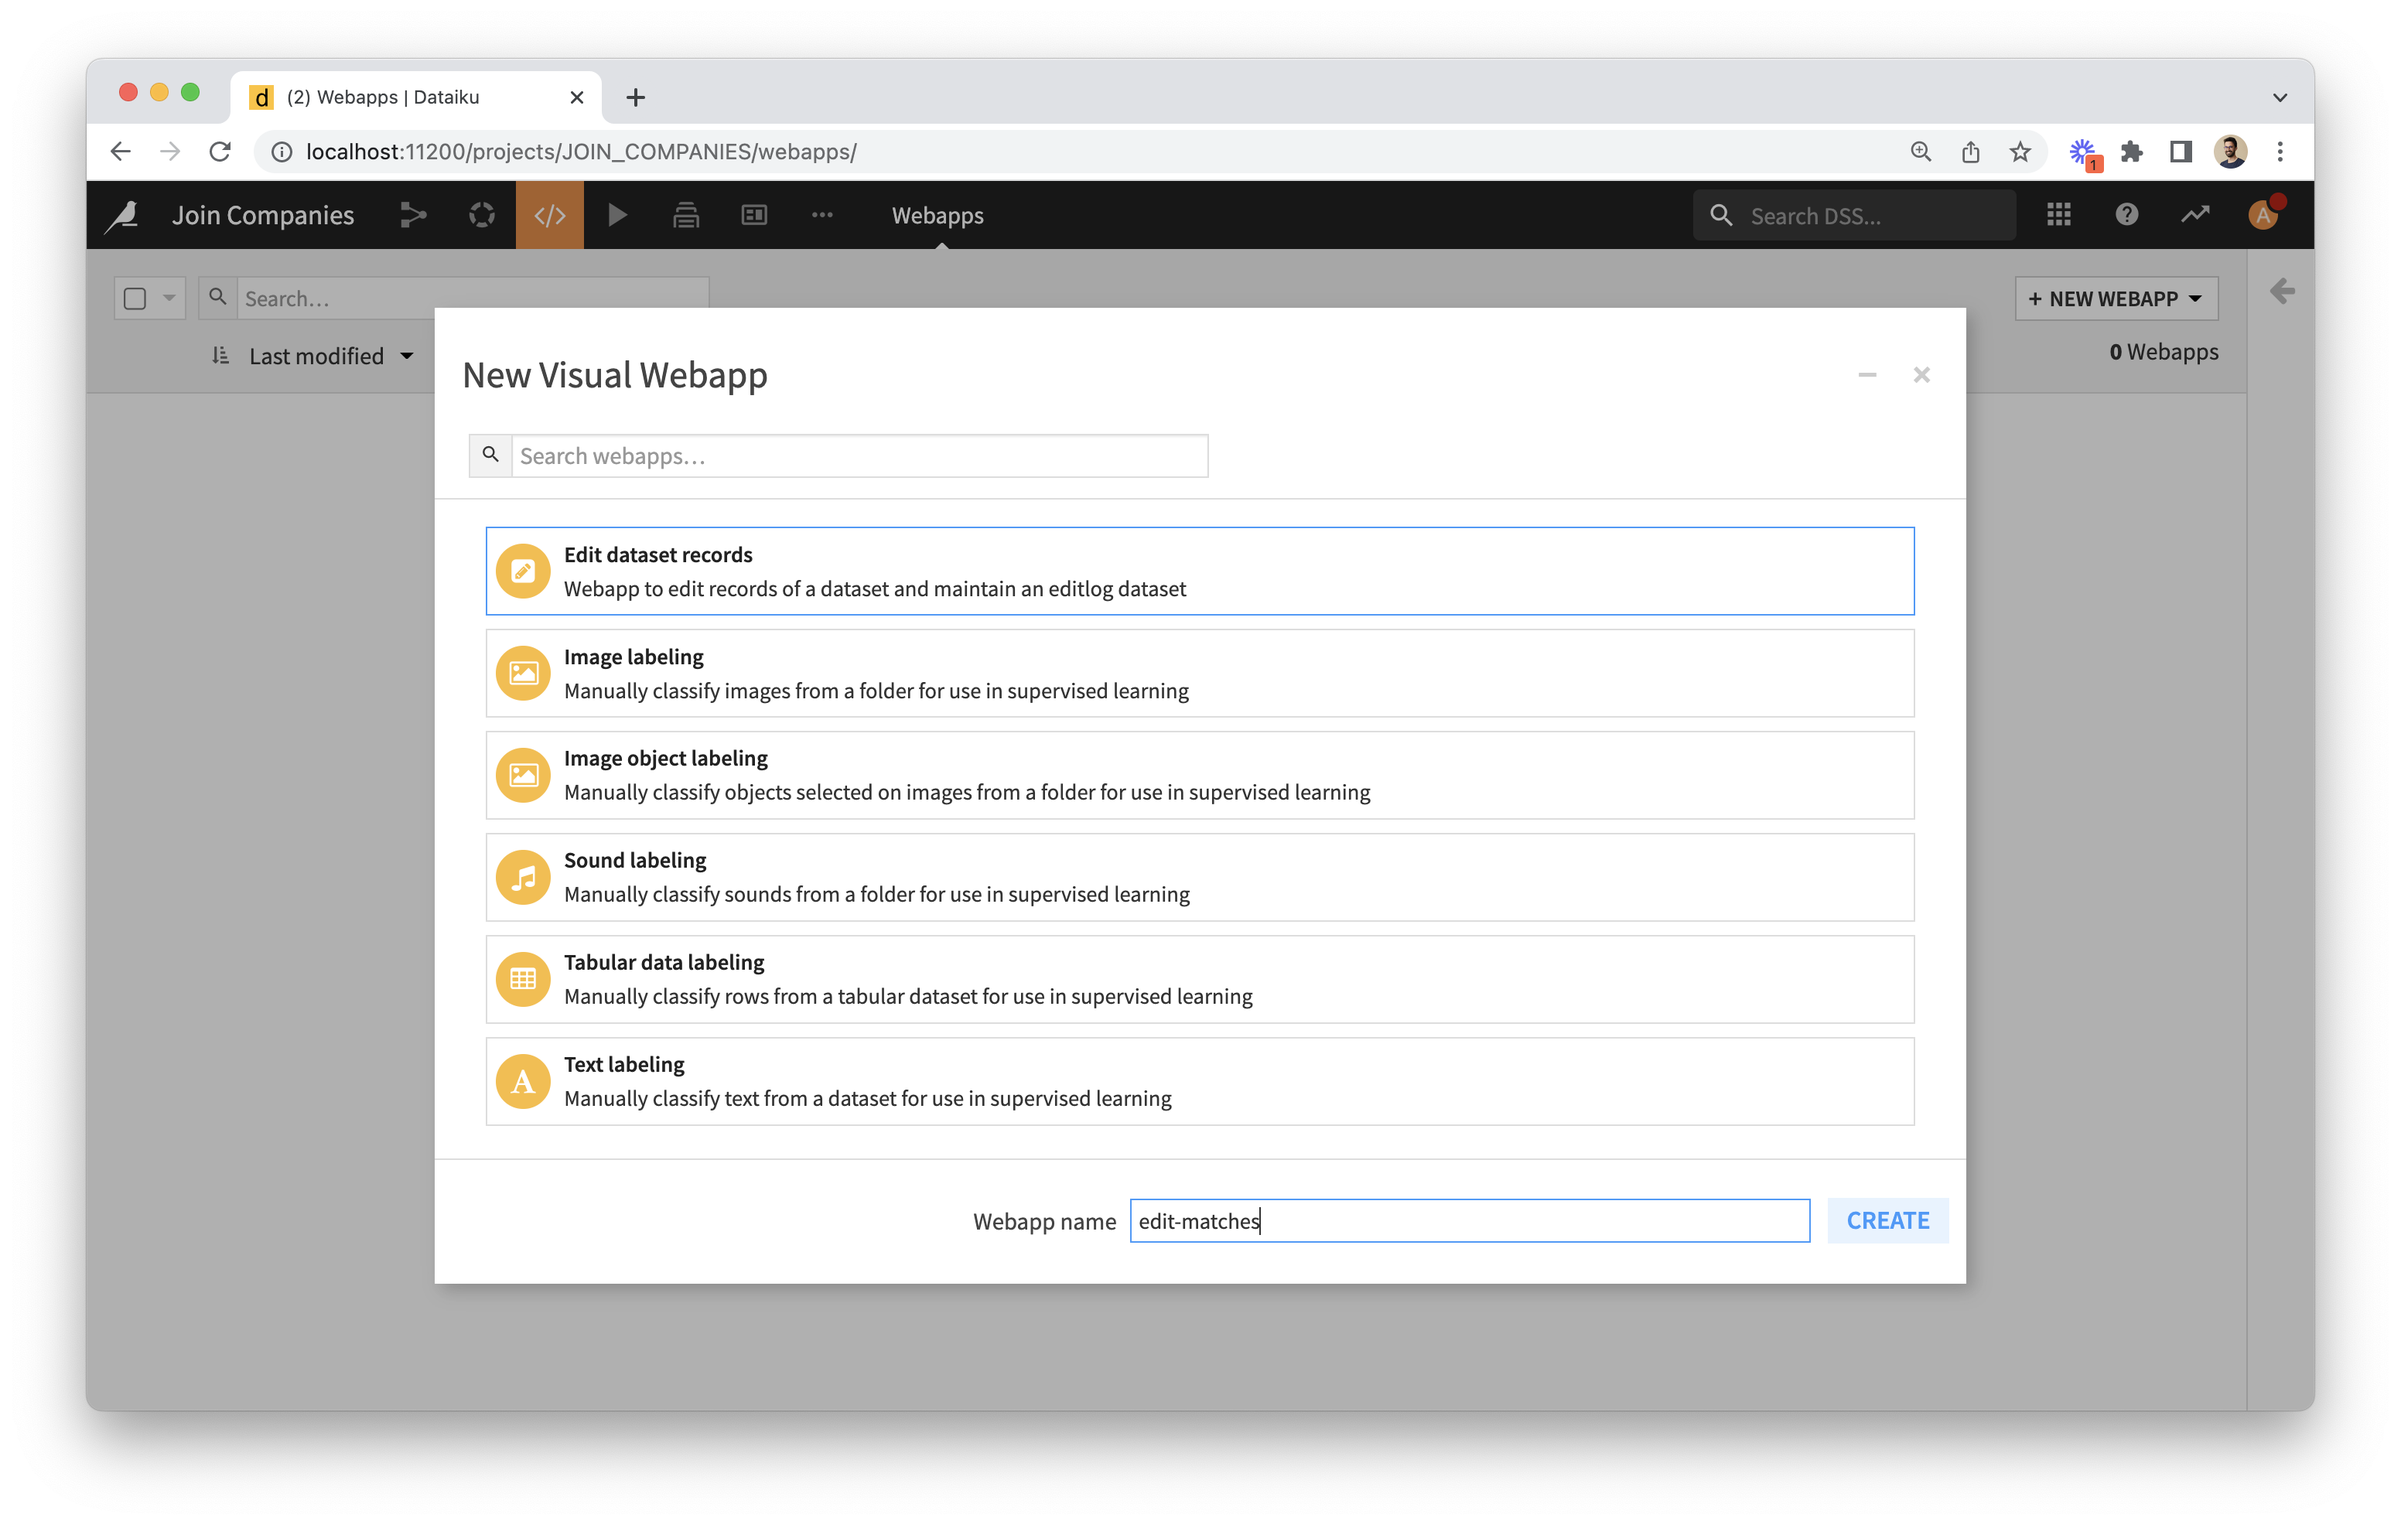
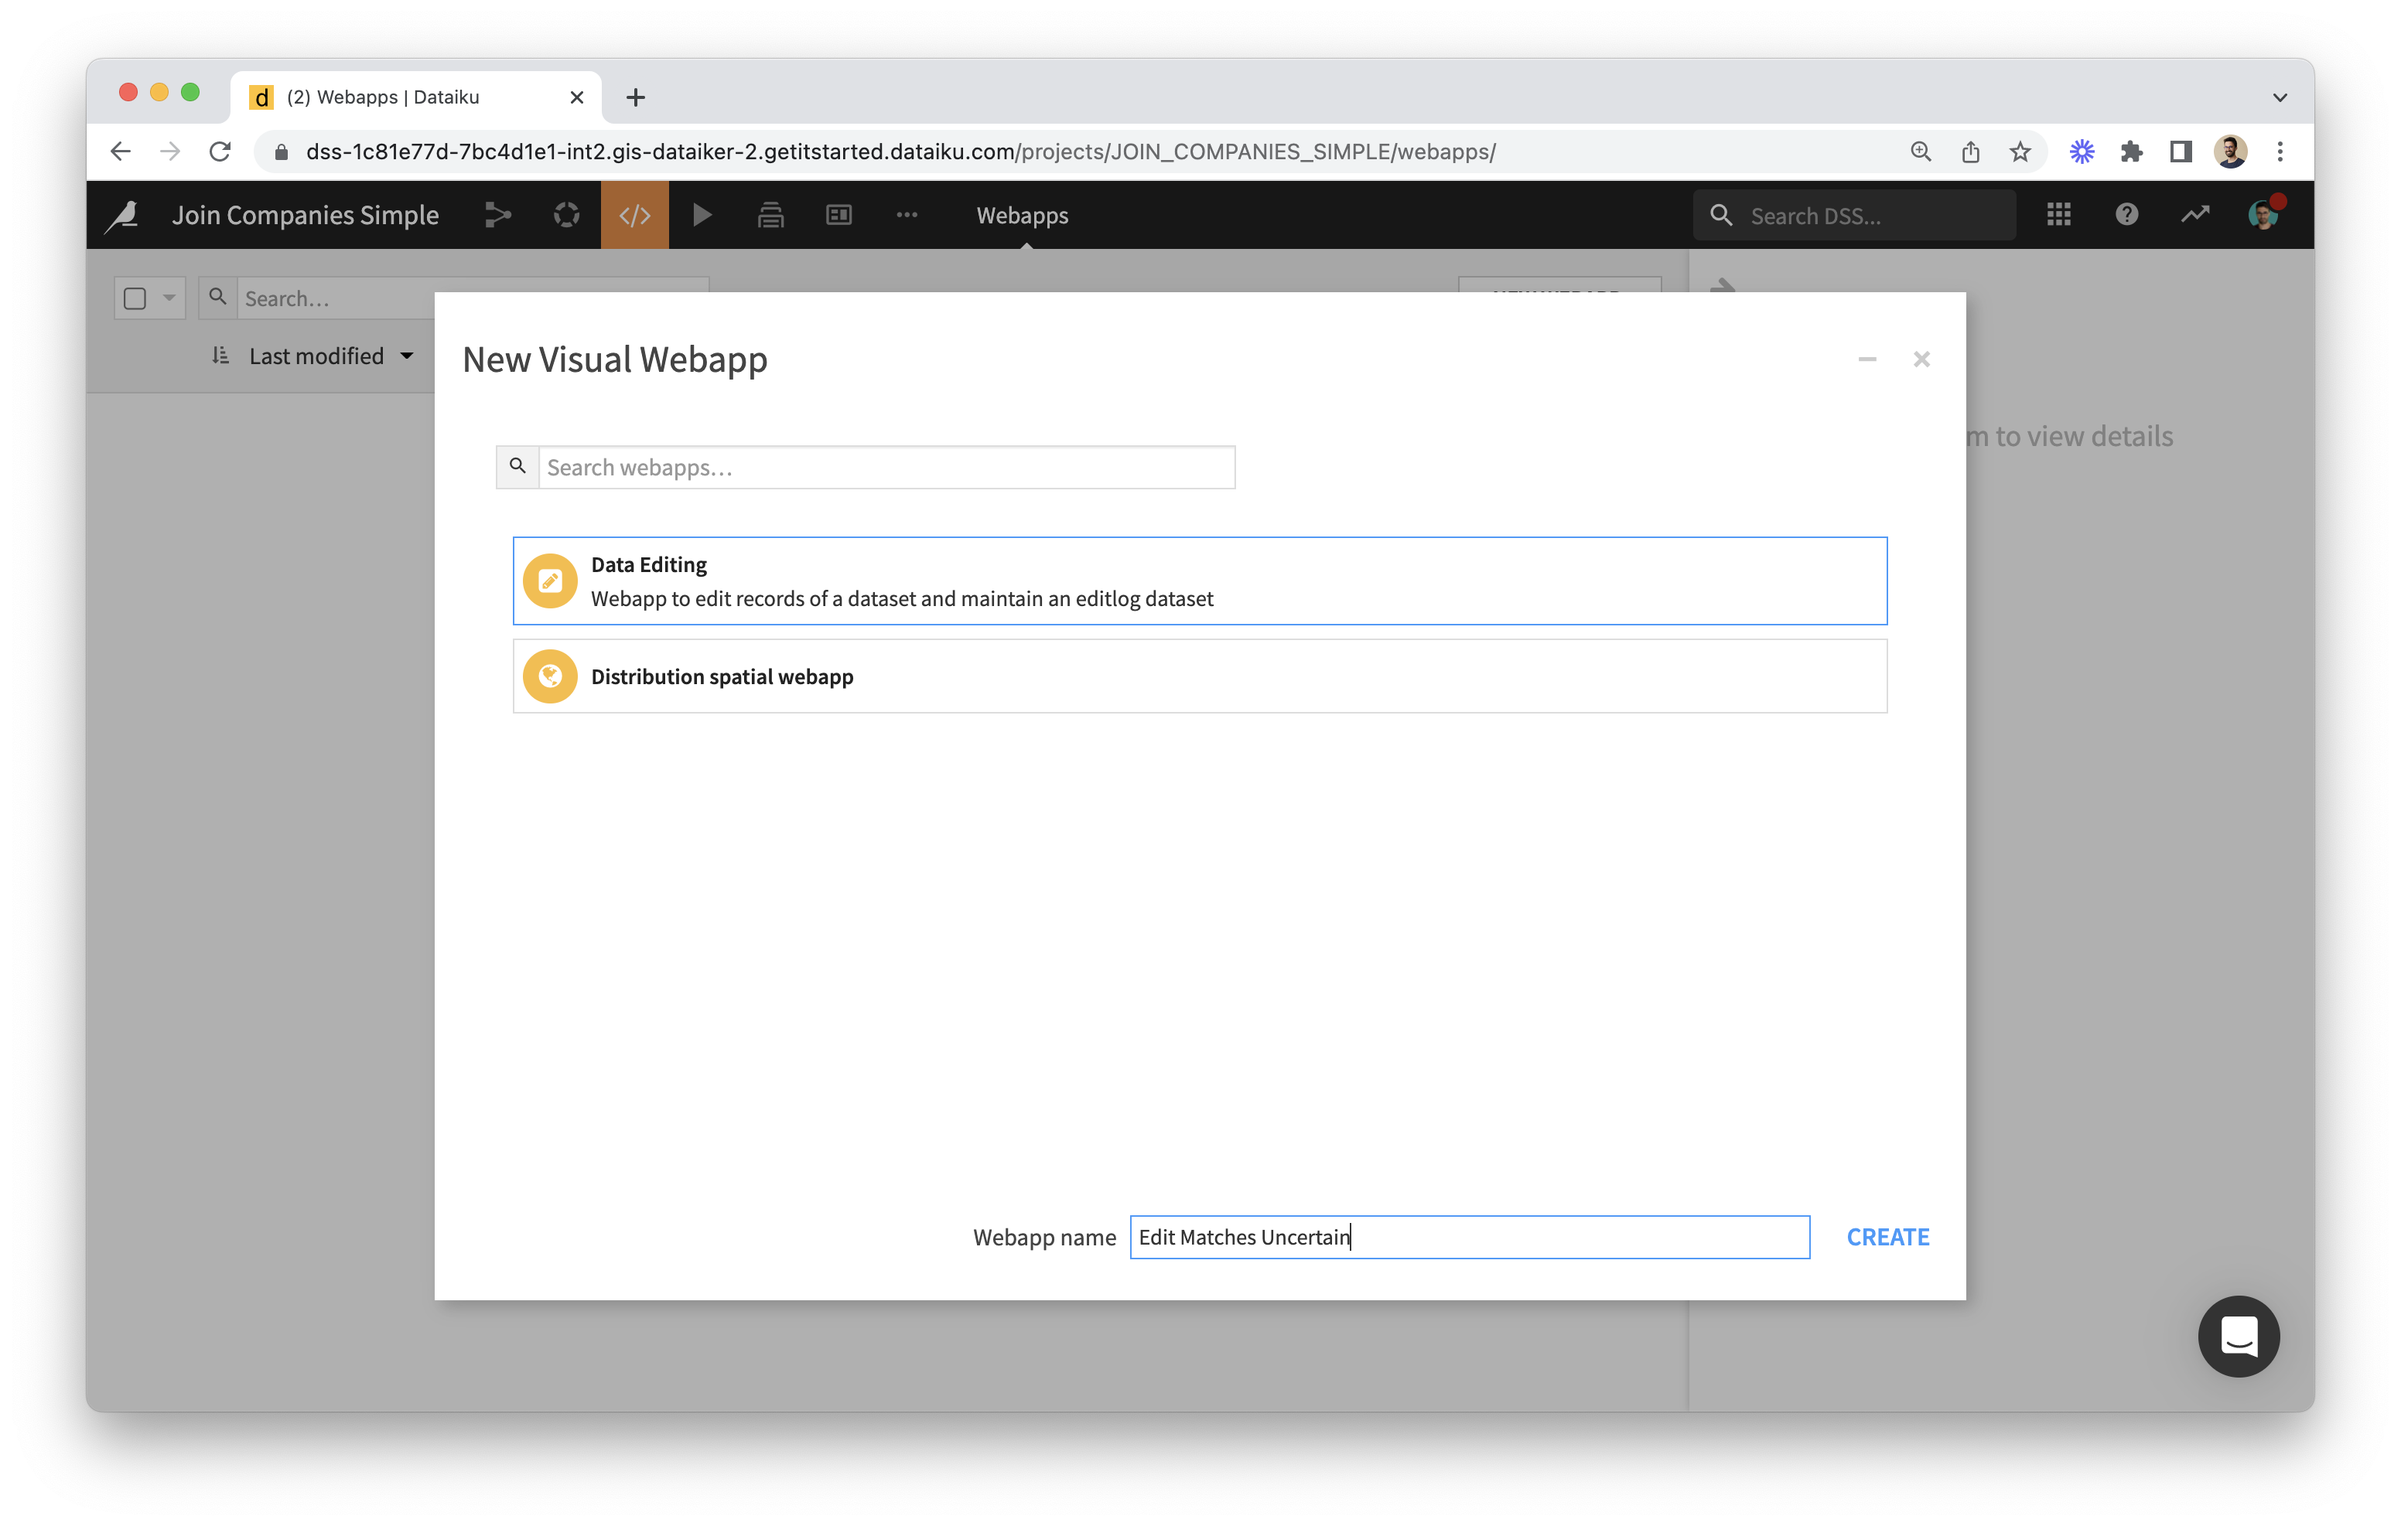
New screenshots

diff --git a/docs/get-started.md b/docs/get-started.md
@@ -5,10 +5,10 @@ If you haven't, [install the _Editable via Webapp_ plugin](install-plugin) first
 ## Create the webapp
 
 * As a preliminary step, have a look at the schema of the dataset to edit and make sure that the type or the meaning of each column is set correctly: they will be used by the webapp to show data (or let you edit it) in the best way.
-* Go to Webapps, create New Visual Webapp, pick Edit dataset records
+* Go to Webapps, create New Visual Webapp, pick Data Editing
   * ![](new_visual_webapp.png)
   * ![](new_visual_webapp_2.png)
-* The webapp settings interface allows to choose a dataset, list key columns (used to identify rows) and editable columns, within the "Data" section. ![](new_visual_webapp_3.png)
+* The webapp settings interface allows to choose a dataset, list key columns (used to identify rows) and editable columns, within the "Data" section. ![](data_editing_webapp_params_full.png)
   * In the "Layout" section you can choose to freeze editable columns to the right-hand side (which is useful when there are many columns), and to group rows by one or more columns.
   * Additional settings can be provided via the ["editschema" in JSON](editschema).
 

diff --git a/docs/going-further.md b/docs/going-further.md
@@ -4,7 +4,7 @@
 
 The best way to make this webapp accessible to end-users is by publishing it to a Dashboard. From there you can add "tiles", such as a Text one with instructions, or a Scenario tile, and adjust the layout. The Scenario tile is displayed as a button to run a chosen scenario; this is a great way to let the end-user run computations that take edits into account.
 
-![](webapp_in_dashboard.png)
+![](dashboard_edit.png)
 
 ## FAQ
 
